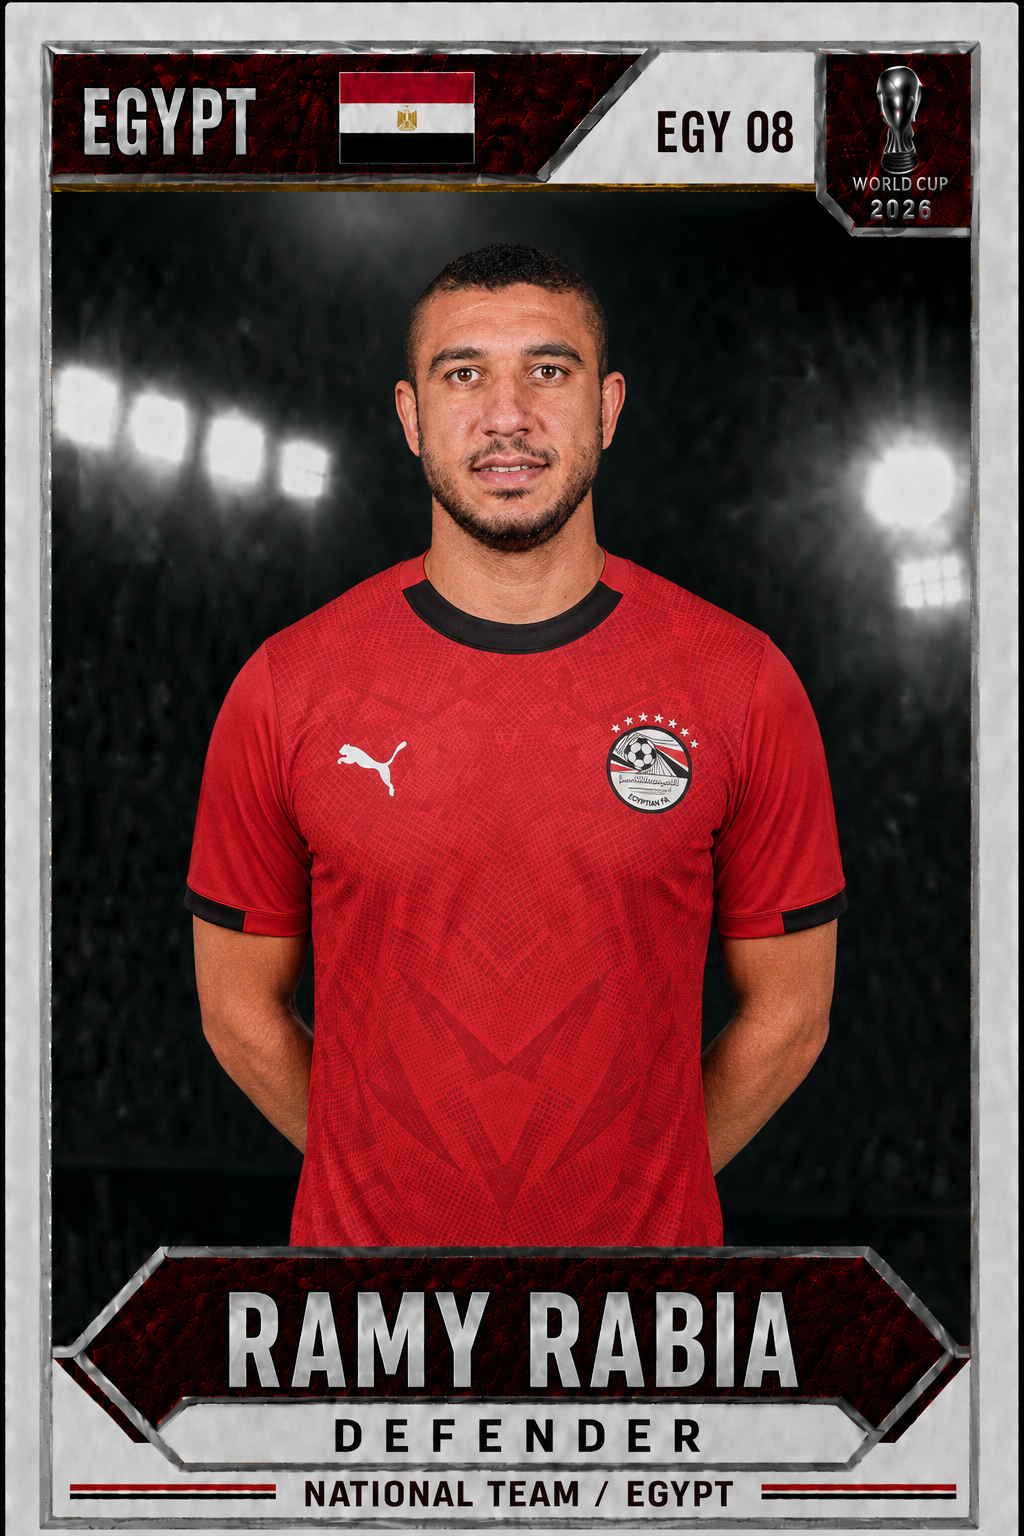
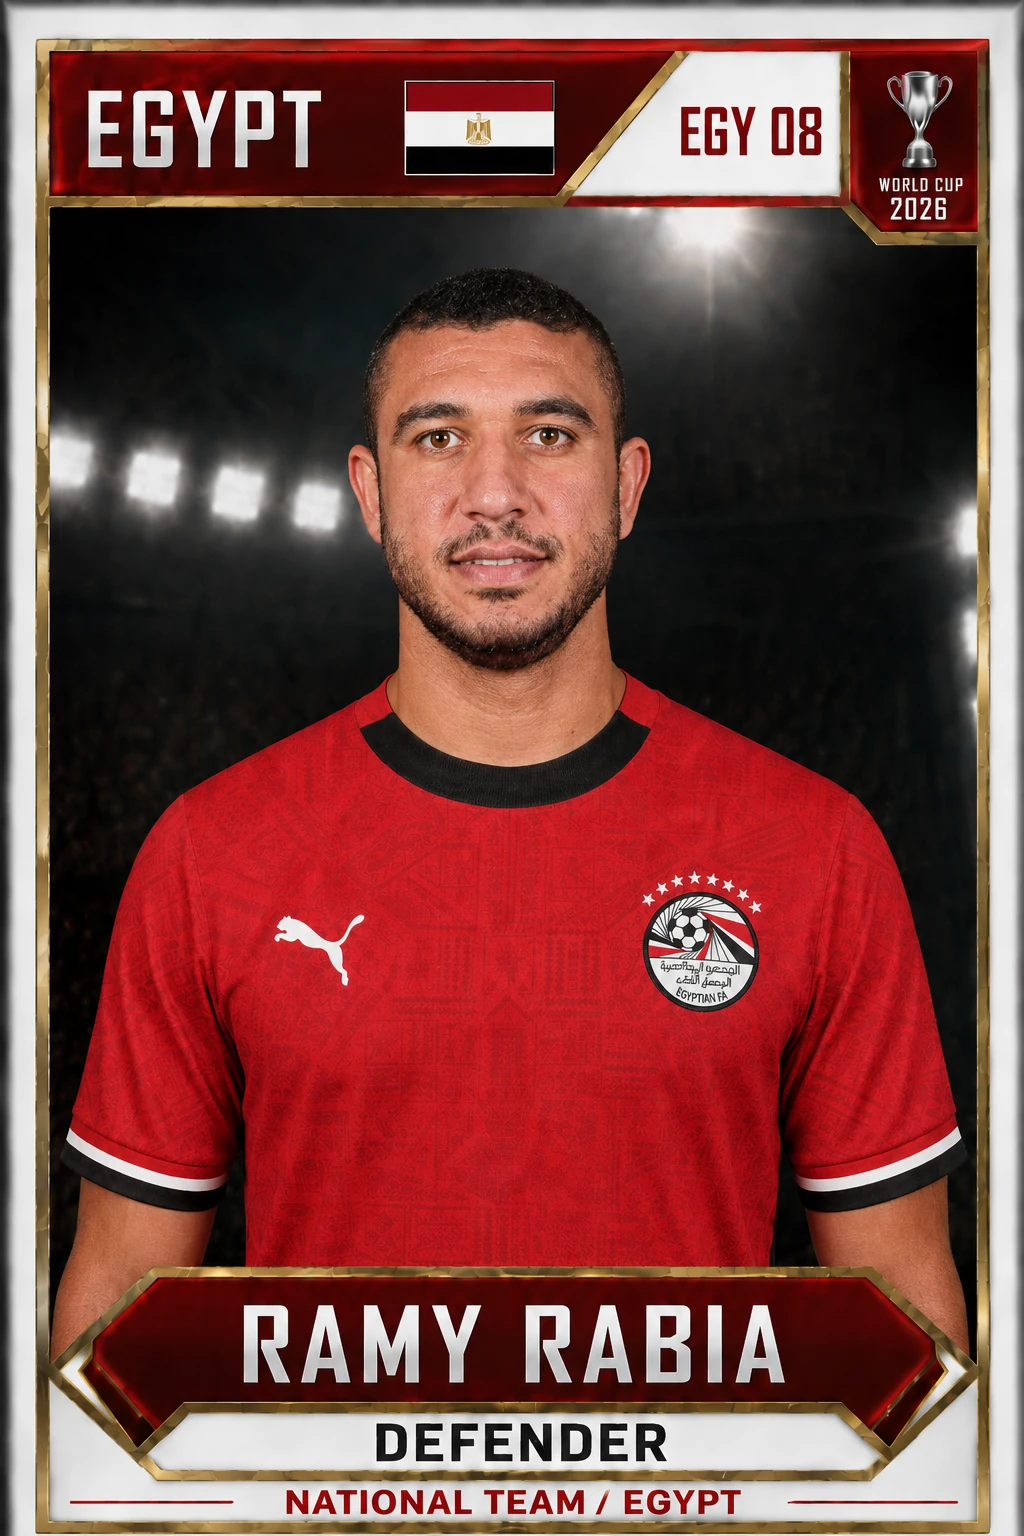
fix: переделал египет fix: позиция 10 кюрасао fix: текст журнал томский футбол

diff --git a/src/components/Album/AlbumContentsPage.vue b/src/components/Album/AlbumContentsPage.vue
@@ -167,7 +167,7 @@ const groupRows: ComputedRef<ContentsGroup[]> = computed((): ContentsGroup[] => 
             </strong>
             <span
               v-if="isTomskContents && team.descriptionKey"
-              class="flex min-h-0 max-w-[94%] flex-1 items-start justify-center overflow-hidden text-center text-[clamp(6px,1.08cqw,16px)] font-semibold leading-[1.22] text-ink/70"
+              class="flex min-h-0 w-full max-w-[94%] flex-1 items-start justify-center overflow-hidden px-[0.25cqw] text-center text-[clamp(8px,1.42cqw,18px)] font-semibold leading-[1.22] text-ink/70 [hyphens:auto] [overflow-wrap:anywhere] max-md:text-[clamp(4px,1.05cqw,6px)]"
             >
               {{ t(team.descriptionKey) }}
             </span>
